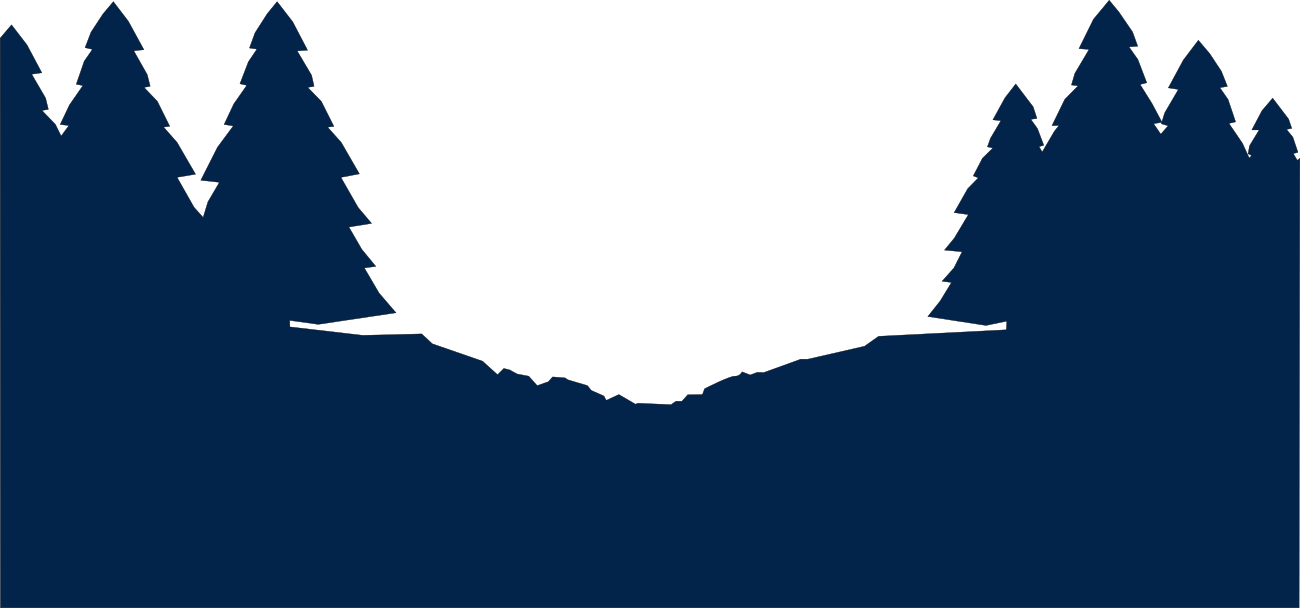
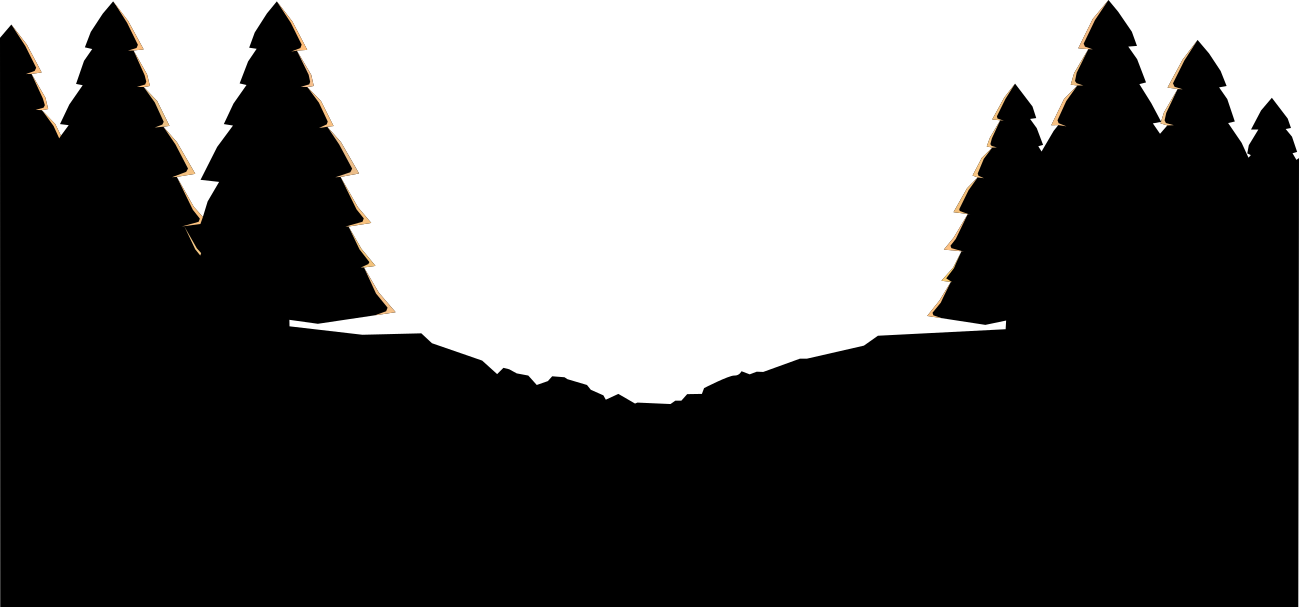
updated schedule

diff --git a/src/components/schedule.jsx b/src/components/schedule.jsx
@@ -1,29 +1,16 @@
 import React, { Component } from "react";
 import "../css/schedule.css";
-import scheduleDarkGrass from '../img/schedule-dark-grass.svg'
-import scheduleLightGrass from '../img/schedule-light-grass.svg'
-import scheduleBackground from '../img/schedule-background-grass.svg'
-import teepee1 from '../img/teepee1.png'
-import teepee2 from '../img/teepee2.png'
-import teepee3 from '../img/teepee3.png'
-import teepee4 from '../img/teepee4.png'
-import teepee5 from '../img/teepee5.png'
-import teepee6 from '../img/teepee6.png'
-
+import pineTree from '../img/pine-trees.png'
+import teepee from '../img/schedule-tent.png'
 import M from 'materialize-css'
+import Bonfire from '../img/bonfire.png'
 
 class Schedule extends Component {
 
 state={
-  scheduleDarkGrass : scheduleDarkGrass,
-  scheduleLightGrass : scheduleLightGrass,
-  scheduleBackground : scheduleBackground,
-  teepee1: teepee1,
-  teepee2: teepee2,
-  teepee3: teepee3,
-  teepee4: teepee4,
-  teepee5: teepee5,
-  teepee6: teepee6
+  pineTree: pineTree,
+  teepee: teepee,
+  Bonfire: Bonfire
 }
 
 
@@ -36,16 +23,21 @@ render() {
     <>
  
     <div className="scheduleBg">
-      <h3 className={"schedule-header center"}>Theme</h3>
-     <img className={"schedule-background"} src={this.state.scheduleBackground} alt="schedule bg"/>
-     <img className={"schedule-dark-grass"} src={this.state.scheduleDarkGrass} alt="schedule bg"/>
-     <img className={"schedule-light-grass"} src={this.state.scheduleLightGrass} alt="schedule bg"/>
-     <img className="teepee-one modal-trigger" href="#modal1" src={this.state.teepee1} alt="teepee"/>
+      <h3 className={"schedule-header center"}>Schedule</h3>
+     <img className={"schedule-background"} src={this.state.pineTree} alt="schedule bg"/>
+     <img className="bonfire modal-trigger" href="#modal1" src={this.state.Bonfire} alt="bonfire"/>
+     <img className="teepee-one modal-trigger" href="#modal1" src={this.state.teepee} alt="teepee"/>
+     <img className="teepee-two modal-trigger" href="#modal1" src={this.state.teepee} alt="teepee"/>
+     <img className="teepee-three modal-trigger" href="#modal1" src={this.state.teepee} alt="teepee"/>
+     <img className="teepee-four modal-trigger" href="#modal1" src={this.state.teepee} alt="teepee"/>
+     {/**<img className="teepee-one modal-trigger" href="#modal1" src={this.state.teepee1} alt="teepee"/>
      <img className="teepee-two modal-trigger" href="#modal1" src={this.state.teepee2} alt="teepee"/>
      <img className="teepee-three modal-trigger" href="#modal1" src={this.state.teepee3} alt="teepee"/>
      <img className="teepee-four modal-trigger" href="#modal1" src={this.state.teepee4} alt="teepee"/>
      <img className="teepee-five modal-trigger" href="#modal1" src={this.state.teepee5} alt="teepee"/>
-     <img className="teepee-six modal-trigger" href="#modal1" src={this.state.teepee6} alt="teepee"/>
+     <img className="teepee-six modal-trigger" href="#modal1" src={this.state.teepee6} alt="teepee"/> */}
+    
+     
     </div>
 
 

diff --git a/src/css/schedule.css b/src/css/schedule.css
@@ -17,67 +17,47 @@
   width: 100%;
 }
 
-.schedule-dark-grass{
-  position: absolute;
-  left: 0;
-  bottom: 0;
-  width: 100%;
-}
-
-.schedule-light-grass{
-  position: absolute;
-  right: 0;
-  bottom: 0;
-  width: 100%;
-}
-
 .teepee-one{
   position: absolute;
-  bottom: 2vw;
-  width: 12%;
+  bottom: 9vw;
+  width: 18%;
   cursor: pointer;
-  left: 5%;
+  right: 18%;
 }
 
 
 .teepee-two{
   position: absolute;
   bottom: 9vw;  
-  width: 12%;
+  width: 18%;
   cursor: pointer;
   left: 20%;
+  transform: scaleX(-1);
 }
 
 .teepee-three{
   position: absolute;
   bottom: 2vw;
-  width: 12%;
+  width: 18%;
   cursor: pointer;
-  left: 35%;
+  left: 33%;
+  transform: scaleX(-1);
 }
 
 
 .teepee-four{
   position: absolute;
   bottom: 2vw;
-  width: 12%;
+  width: 18%;
   cursor: pointer;
-  left: 55%;
-}
-
-.teepee-five{
-  position: absolute;
-  bottom: 11vw;
-  width: 12%;
-  cursor: pointer;
-  right: 20%;
+  left: 51%;
 }
 
 
-.teepee-six{
+.bonfire{
   position: absolute;
-  bottom: 7vw;
-  width: 12%;
+  bottom: 5vw;
   cursor: pointer;
-  right: 5%;
+  left: 46%;
+  width: 10%;
 }
